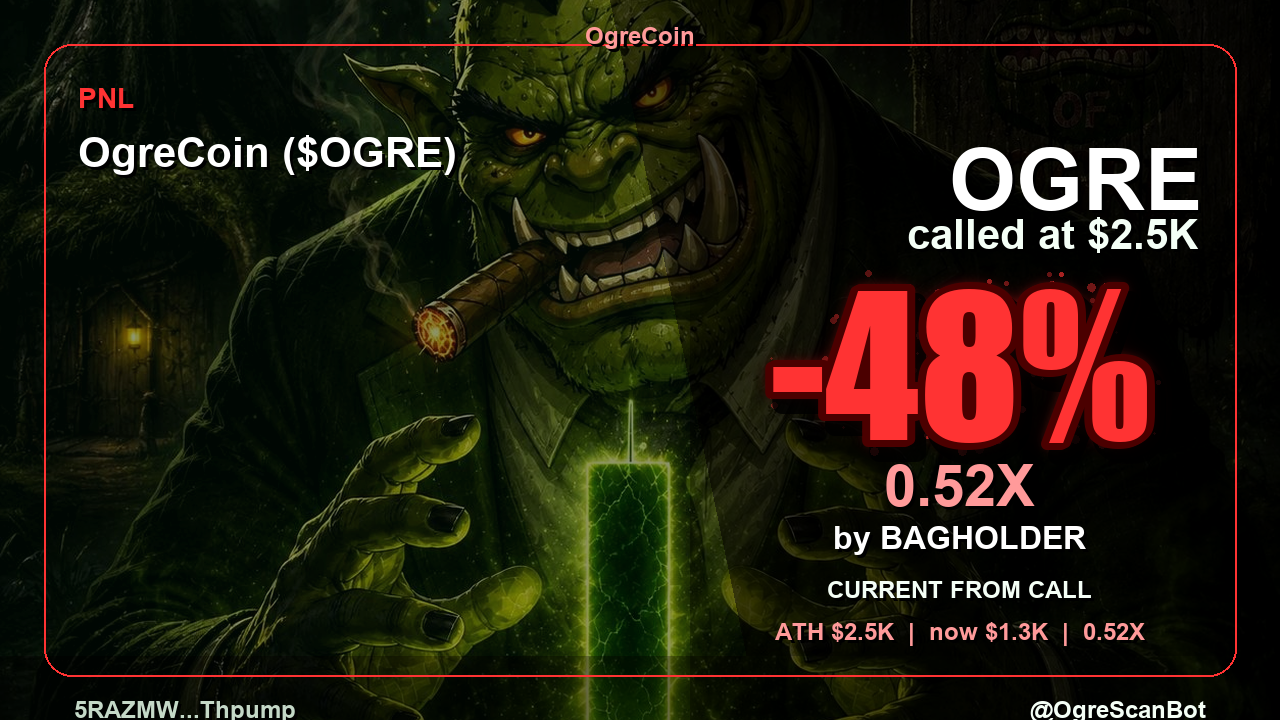
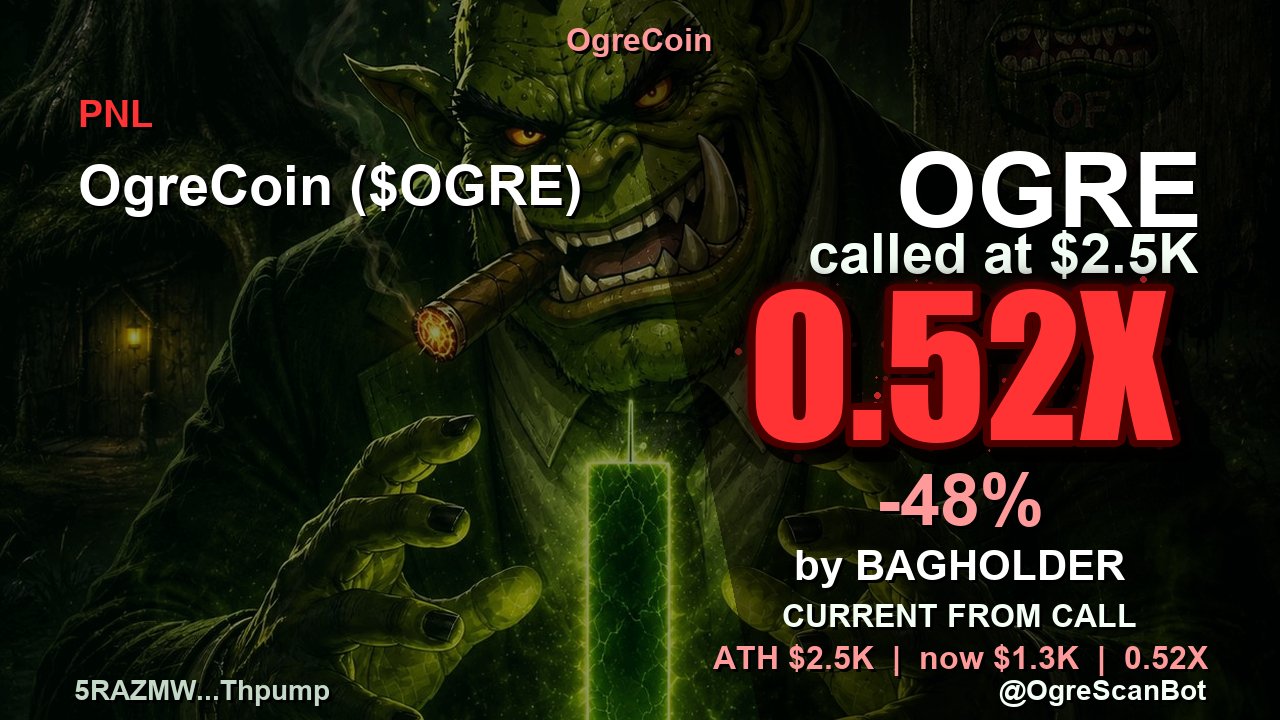
f

diff --git a/ogrescanbot/images.py b/ogrescanbot/images.py
@@ -30,30 +30,27 @@ def build_pnl_card(token: TokenScan, call: CallRecord, title: str = "PNL") -> By
     glow_mid = "#0b9f2d" if metrics["positive"] else "#b31818"
 
     font_result = _headline_font(188 if len(headline) <= 6 else 162)
-    font_percent = _font(58, bold=True)
-    font_brand = _font(86, bold=True)
-    font_label = _font(28, bold=True)
-    font_mid = _font(42, bold=True)
-    font_small = _font(32, bold=True)
-    font_tiny = _font(24, bold=True)
+    font_percent = _font(72, bold=True)
+    font_brand = _font(104, bold=True)
+    font_label = _font(38, bold=True)
+    font_mid = _font(56, bold=True)
+    font_small = _font(42, bold=True)
+    font_tiny = _font(32, bold=True)
+    font_footer = _font(28, bold=True)
 
     overlay = Image.new("RGBA", image.size, (0, 0, 0, 0))
     overlay_draw = ImageDraw.Draw(overlay, "RGBA")
     overlay_draw.rectangle((0, 0, width, height), fill=(0, 18, 6, 45))
     overlay_draw.polygon([(610, 0), (width, 0), (width, height), (760, height)], fill=(0, 0, 0, 142))
-    overlay_draw.rectangle((0, height - 64, width, height), fill=(0, 0, 0, 105))
     image = Image.alpha_composite(image, overlay)
     draw = ImageDraw.Draw(image, "RGBA")
 
-    border = (44, 255, 82, 135) if metrics["positive"] else (255, 51, 51, 135)
-    draw.rounded_rectangle((44, 44, width - 44, height - 44), radius=28, outline=border, width=2)
-
-    _shadow_text(draw, (78, 82), title.upper(), font=font_label, fill=accent)
-    _shadow_text(draw, (78, 128), _shorten(f"{token.name} (${token.symbol})", 30), font=font_mid, fill="#ffffff")
-    _shadow_text(draw, (width // 2, 36), _shorten(token.name, 16), font=font_tiny, fill=accent_soft, anchor="mm")
+    _shadow_text(draw, (78, 92), title.upper(), font=font_label, fill=accent)
+    _shadow_text(draw, (78, 154), _shorten(f"{token.name} (${token.symbol})", 24), font=font_mid, fill="#ffffff")
+    _shadow_text(draw, (width // 2, 40), _shorten(token.name, 16), font=font_tiny, fill=accent_soft, anchor="mm")
 
     _shadow_text(draw, (width - 78, 132), "OGRE", font=font_brand, fill="#ffffff", anchor="ra")
-    _shadow_text(draw, (width - 82, 210), f"called at {money(call.initial_cap)}", font=font_mid, fill="#f4fff6", anchor="ra")
+    _shadow_text(draw, (width - 82, 222), f"called at {money(call.initial_cap)}", font=font_mid, fill="#f4fff6", anchor="ra")
 
     _spray_text(
         image,
@@ -65,16 +62,17 @@ def build_pnl_card(token: TokenScan, call: CallRecord, title: str = "PNL") -> By
         glow_mid=glow_mid,
     )
     draw = ImageDraw.Draw(image, "RGBA")
-    _shadow_text(draw, (960, 486), str(metrics["percent"]), font=font_percent, fill=accent_soft, anchor="mm")
-    _shadow_text(draw, (960, 538), f"by {_shorten(call.caller_name, 20).upper()}", font=font_small, fill="#ffffff", anchor="mm")
-    _shadow_text(draw, (960, 590), str(metrics["caption"]), font=font_tiny, fill="#f4fff6", anchor="mm")
+    _shadow_text(draw, (960, 500), str(metrics["percent"]), font=font_percent, fill=accent_soft, anchor="mm")
+    _shadow_text(draw, (960, 565), f"by {_shorten(call.caller_name, 16).upper()}", font=font_small, fill="#ffffff", anchor="mm")
+    _shadow_text(draw, (960, 616), str(metrics["caption"]), font=font_tiny, fill="#f4fff6", anchor="mm")
 
     detail = f"ATH {money(call.peak_cap)}  |  now {money(call.last_cap)}  |  {metrics['current_x']}"
-    _shadow_text(draw, (960, 632), detail, font=font_tiny, fill=accent_soft, anchor="mm")
+    _shadow_text(draw, (960, 658), detail, font=font_tiny, fill=accent_soft, anchor="mm")
 
     short_ca = f"{token.address[:6]}...{token.address[-6:]}"
-    _shadow_text(draw, (width - 74, height - 24), "@OgreScanBot", fill="#f4fff6", font=font_tiny, anchor="ra")
-    _shadow_text(draw, (74, height - 24), short_ca, fill="#c4d8c7", font=font_tiny)
+    footer_y = height - 46
+    _shadow_text(draw, (width - 74, footer_y), "@OgreScanBot", fill="#f4fff6", font=font_footer, anchor="ra")
+    _shadow_text(draw, (74, footer_y), short_ca, fill="#c4d8c7", font=font_footer)
 
     output = BytesIO()
     image.convert("RGB").save(output, format="PNG")
@@ -171,7 +169,6 @@ def _load_background(width: int, height: int) -> Image.Image:
     overlay = Image.new("RGBA", (width, height), (0, 0, 0, 0))
     overlay_draw = ImageDraw.Draw(overlay)
     overlay_draw.rectangle((0, 0, width, height), fill=(0, 20, 8, 58))
-    overlay_draw.rectangle((690, 0, width, height), fill=(0, 0, 0, 105))
     return Image.alpha_composite(image.convert("RGBA"), overlay)
 
 
@@ -207,8 +204,8 @@ def _pnl_metrics(call: CallRecord) -> dict[str, object]:
     return_pct = (current_multiple - 1.0) * 100
     return {
         "positive": False,
-        "headline": f"{return_pct:.0f}%",
-        "percent": f"{current_multiple:.2f}X",
+        "headline": f"{current_multiple:.2f}X",
+        "percent": f"{return_pct:.0f}%",
         "caption": "CURRENT FROM CALL",
         "current_x": f"{current_multiple:.2f}X",
     }

diff --git a/ogrescanbot/formatting.py b/ogrescanbot/formatting.py
@@ -141,34 +141,38 @@ def format_leaderboard(
 ) -> str:
     trader_rows = []
     medals = ["🥇", "🥈", "🥉"]
-    for index, trader in enumerate(traders, start=1):
-        prefix = medals[index - 1] if index <= 3 else str(index)
+    tree = ["├", "├", "└"]
+    for index, trader in enumerate(traders[:3], start=1):
+        branch = tree[index - 1]
+        medal = medals[index - 1]
         trader_rows.append(
-            f"{prefix} <b>{html.escape(trader.caller_name)}</b> "
-            f"[{trader.best_multiple:.2f}x] • {trader.hits}/{trader.total_calls} hits"
+            f"{branch}{medal} <b>{html.escape(trader.caller_name)}</b> "
+            f"[{trader.best_multiple:.1f} pts]"
         )
-    trader_body = "\n".join(trader_rows) if trader_rows else "No traders tracked for this period yet."
+    trader_body = "\n".join(trader_rows) if trader_rows else "└ No callers tracked yet"
 
     call_rows = []
     for index, call in enumerate(calls, start=1):
-        prefix = "🎉" if index <= 5 else "😎"
+        prefix = "🎉" if index <= 3 else "😎"
+        marker = "💊" if index in {2, 7, 8, 9} else "🟪"
         call_rows.append(
-            f"{prefix} {index}. <b>{html.escape(call.token_symbol)}</b> » "
-            f"{html.escape(call.caller_name)} [{call.peak_multiple:.2f}x]"
+            f"{prefix}{marker} {index} <b>{html.escape(call.token_symbol)}</b> » "
+            f"<i>{html.escape(call.caller_name)}</i> [<b>{call.peak_multiple:.1f}x</b>]"
         )
     call_body = "\n".join(call_rows) if call_rows else "No calls tracked for this period yet."
+    avg = float(stats.get("avg", 0))
     return (
         f"🏆 <b>Leaderboard</b>\n\n"
         f"👑 <b>Top Callers</b>\n"
-        f"├ {trader_body.replace(chr(10), chr(10) + '├ ')}\n\n"
+        f"{trader_body}\n\n"
         f"📊 <b>Group Stats</b>\n"
-        f"├ Period   <b>{html.escape(period)}</b>\n"
-        f"├ Calls    <b>{int(stats['calls'])}</b>\n"
-        f"├ Hit Rate <b>{int(stats['hit_rate'])}%</b>\n"
-        f"├ Median   <b>{float(stats['median']):.2f}x</b>\n"
-        f"└ Return   <b>{float(stats['return']):.2f}x</b>\n\n"
-        f"💊 <b>Best Trades</b>\n"
-        f"{call_body}"
+        f"├Period   <b>{html.escape(period)}</b>\n"
+        f"├Calls    <b>{int(stats['calls'])}</b>\n"
+        f"├Hit Rate <b>{int(stats['hit_rate'])}%</b>\n"
+        f"├Median   <b>{leaderboard_median_pct(stats)}</b>\n"
+        f"└Return   <b>{float(stats['return']):.1f}x</b> (<i>Avg: {avg:.1f}x</i>)\n\n"
+        f"<blockquote>{call_body}</blockquote>\n\n"
+        f"📚 <a href=\"{OGRE_WEBSITE_URL}\">Learn More!</a>"
         f"{powered_by_footer()}"
     )
 
@@ -275,6 +279,12 @@ def multiple_pct(value: float | None) -> str:
     if value is None:
         return "n/a"
     return f"{(value - 1.0) * 100:+.0f}%"
+
+
+def leaderboard_median_pct(stats: dict[str, float | int]) -> str:
+    if int(stats.get("calls", 0)) <= 0:
+        return "0%"
+    return multiple_pct(float(stats.get("median", 0)))
 
 
 def security_status(token: TokenScan, rug: RugSummary | None) -> str:

diff --git a/ogrescanbot/db.py b/ogrescanbot/db.py
@@ -566,11 +566,12 @@ def _row_to_trader(row: aiosqlite.Row) -> TraderRecord:
 def _stats_from_rows(rows, min_hit_multiple: float) -> dict[str, float | int]:
     multiples = [float(row["peak_multiple"]) for row in rows]
     if not multiples:
-        return {"calls": 0, "hit_rate": 0, "median": 0, "return": 0}
+        return {"calls": 0, "hit_rate": 0, "median": 0, "return": 0, "avg": 0}
     hits = [value for value in multiples if value >= min_hit_multiple]
     return {
         "calls": len(multiples),
         "hit_rate": round((len(hits) / len(multiples)) * 100),
         "median": statistics.median(multiples),
         "return": max(multiples),
+        "avg": statistics.mean(multiples),
     }

diff --git a/README.md b/README.md
@@ -11,6 +11,7 @@ Solana-first Telegram scanner bot using free/public data sources.
 - Refreshes tracked calls from free APIs in the background so ATH/peak X keeps moving.
 - Tracks each chat separately.
 - Builds leaderboards based on the biggest X return from a single call.
+- Leaderboards use a compact tree-and-quote layout for top callers, group stats, and best trades.
 - Generates call-based PNL/flex cards with `/pnl <ca>` or `/flex <ca>`.
 - PNL/flex cards use text over the image with no stat boxes, showing a big green call-to-ATH X or a big red loss.
 - Pulls token metadata images/descriptions from Dexscreener and falls back to Pump.fun public metadata when available.